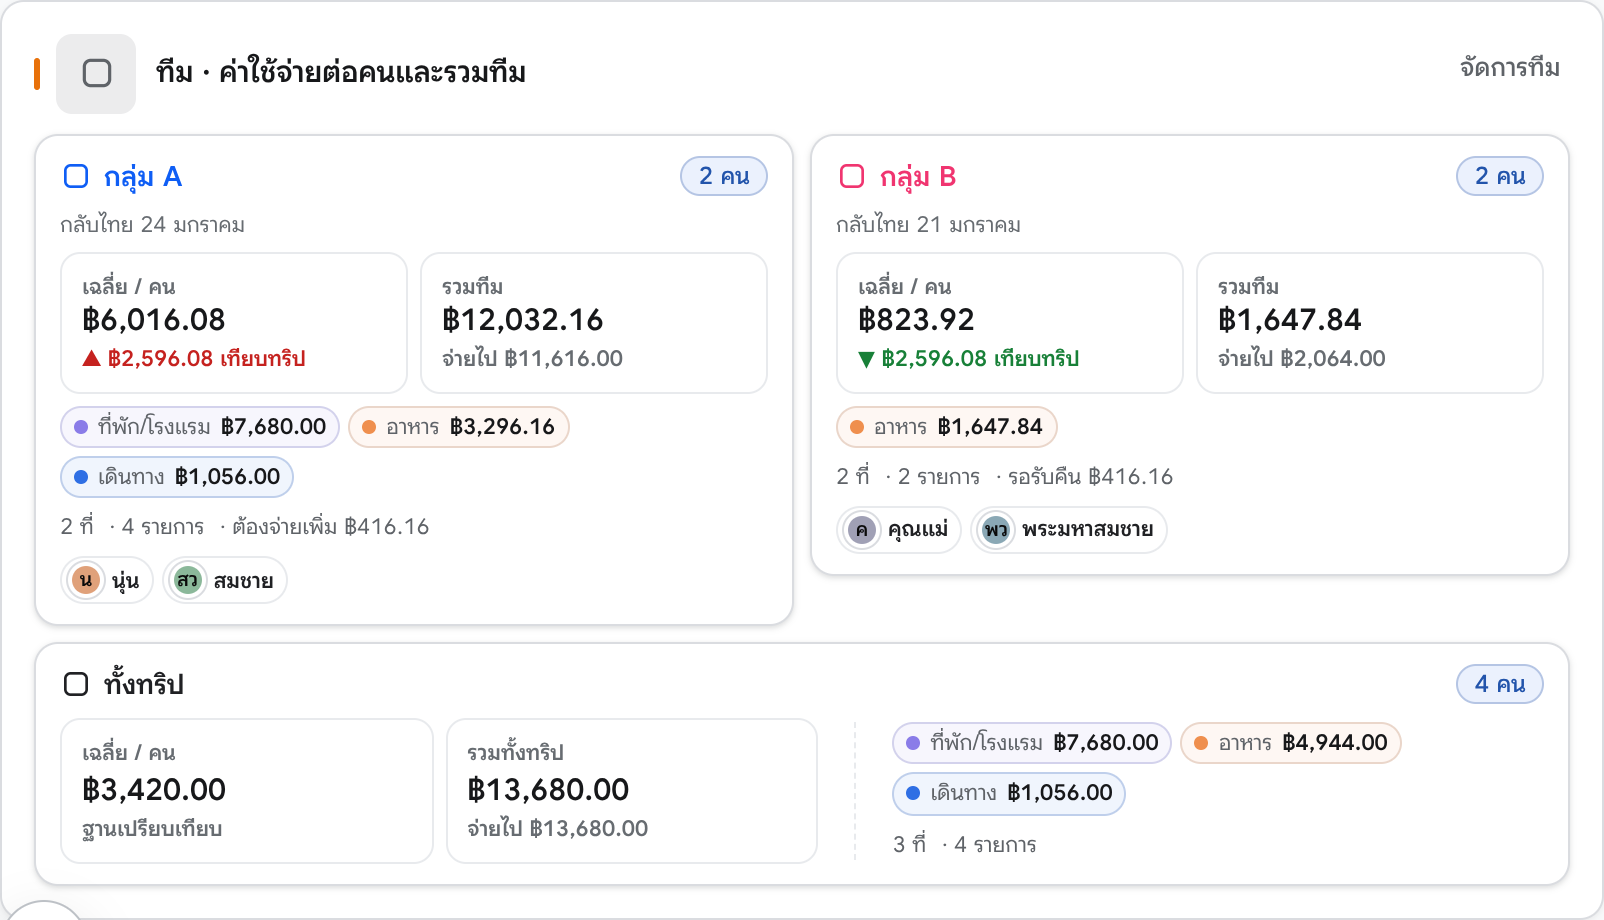
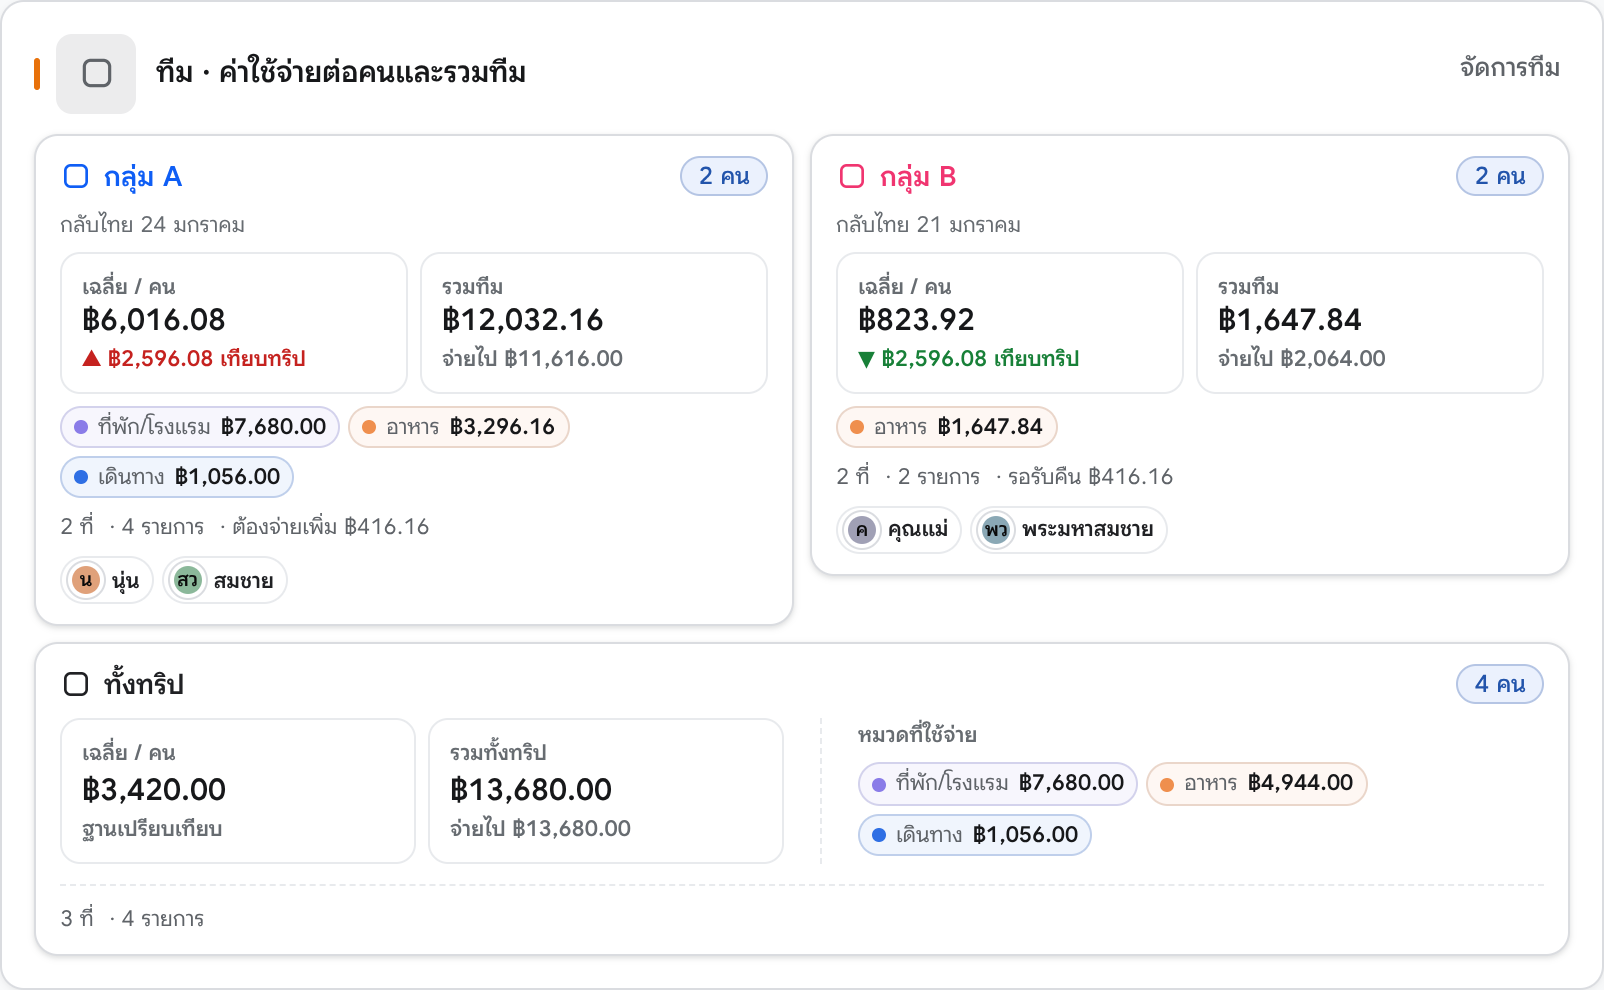
v43: the stretched “ทั้งทริป” row now reads as balanced, orderly bands
Follow-up to the iPad fix (owner: “เมื่อยืดแล้วการจัดวางเนื้อหาภายในก็ควรสมดุล
เป็นระเบียบด้วย”). The wide benchmark card is no longer two halves where the
facts hang off one side:

- head → [figures] | [categories] split by one dashed rule → facts / leftover
  members as a single footer band across the whole card (the dashed rule the
  card always used on a phone).
- the categories band gets the same kind of caption as the figure tiles
  (“หมวดที่ใช้จ่าย”), hidden while the card is stacked so a phone is unchanged.
- the dashed rule stretches to the taller band and both figures keep that height
  with their numbers centred, so neither side looks short.
- two container queries size the bands from the card itself: 560px+ = two equal
  halves; 900px+ = one band per team column above (figure | figure | categories)
  so the benchmark row lines up with the cards it benchmarks. Below 560px it
  still stacks exactly as before.
- tests/unit/dashboard-teams.test.js updated for the bands; before/after iPad
  screenshots refreshed in docs/preview/.

diff --git a/tests/unit/dashboard-teams.test.js b/tests/unit/dashboard-teams.test.js
@@ -1,10 +1,12 @@
 // v43 (owner report: “การ์ด ทีม · ค่าใช้จ่ายต่อคนและรวมทีม … ทางขวาของการ์ดดูว่าง
-// มีพื้นที่เปลือง … บนไอแพดสามารถยืดการ์ดย่อยนี้ให้เต็มเสมอการ์ดด้านบน”)
+// มีพื้นที่เปลือง … บนไอแพดสามารถยืดการ์ดย่อยนี้ให้เต็มเสมอการ์ดด้านบน” แล้วต่อด้วย
+// “เมื่อยืดแล้วการจัดวางเนื้อหาภายในก็ควรสมดุลเป็นระเบียบด้วย”)
 //
 // The “ทั้งทริป / Whole trip” card is the benchmark the teams are compared with.
-// On an iPad it used to sit in the left half of an otherwise empty row, so the
-// rules below keep it either paired with a team (no hole) or across the whole
-// row — and once it is that wide, CSS lays its numbers out as one strip.
+// On an iPad it used to sit in the left half of an otherwise empty row. The rules
+// below keep it either paired with a team (no hole) or across the whole row — and
+// when it is that wide its inside becomes three orderly bands instead of two
+// lopsided halves: head → figures | categories → facts / leftover members.
 import fs from 'node:fs';
 import path from 'node:path';
 
@@ -12,6 +14,16 @@ const here = path.dirname(new URL(import.meta.url).pathname);
 const appSource = fs.readFileSync(path.join(here, '../../src/js/app.js'), 'utf8');
 const flatCss = fs.readFileSync(path.join(here, '../../src/css/flat.css'), 'utf8');
 const componentsCss = fs.readFileSync(path.join(here, '../../src/css/components.css'), 'utf8');
+
+/** The rule block that starts at `needle` and runs to the next one. */
+function cssBlock(startNeedle, endNeedle) {
+  const start = flatCss.indexOf(startNeedle);
+  const end = flatCss.indexOf(endNeedle, start + startNeedle.length);
+  return start > -1 && end > start ? flatCss.slice(start, end) : '';
+}
+
+const twoBand = cssBlock('@container (min-width: 560px)', '@container (min-width: 900px)');
+const threeBand = cssBlock('@container (min-width: 900px)', '.summary-stats-row {');
 
 function ok(value, label) { if (!value) throw new Error(label); }
 
@@ -25,19 +37,27 @@ function tripCardMarkup() {
 
 export function testWholeTripCardIsOneSelfContainedCard() {
   const card = tripCardMarkup();
-  ok(/team-trip-body/.test(card), 'the benchmark card groups its figures in .team-trip-body');
-  ok(/team-trip-side/.test(card), 'categories / facts / leftover members share .team-trip-side');
+  ok(/team-trip-body/.test(card), 'the benchmark card groups its figures and categories in .team-trip-body');
+  ok(/team-trip-side/.test(card), 'the categories keep their own band (.team-trip-side)');
+  ok(/team-trip-foot/.test(card), 'facts / leftover members sit in a footer band (.team-trip-foot)');
   ok(!/team-card-top|team-card-foot/.test(card),
     'the benchmark card is not written as a team card’s top+foot pair any more');
   // The figures and the comparison label must survive the rewrite.
   ok(/เฉลี่ย \/ คน/.test(card) && /รวมทั้งทริป/.test(card), 'per-person and trip totals are still shown');
   ok(/ฐานเปรียบเทียบ/.test(card), 'the card still says it is the comparison base');
+  // The categories band is named in the wide layout (the label is hidden when the
+  // card is stacked, so a phone looks exactly like a team card).
+  ok(/team-trip-label/.test(card) && /หมวดที่ใช้จ่าย/.test(card), 'the categories band carries its own label');
+  ok(/\.team-trip-label \{ display: none; \}/.test(flatCss), 'that label is hidden while the card is stacked');
 }
 
 export function testBenchmarkTakesTheWholeRowOnTablet() {
-  const tablet = flatCss.match(/@media \(min-width: 768px\) and \(max-width: 1023px\) \{[^}]*#team-board > \.team-card--trip:nth-child\(odd\)[^}]*\}[^}]*\}/);
-  ok(tablet, 'the tablet grid gives the benchmark card the full row when it would start one alone');
-  ok(/grid-column:\s*1 \/ -1/.test(tablet[0]), 'the benchmark card spans both tablet columns');
+  // the v43 rules (two tablet media queries exist — the column counts and this one)
+  const v43 = flatCss.slice(flatCss.indexOf('/* v43 —'));
+  const tablet = v43.slice(0, v43.indexOf('@media (min-width: 1024px)'));
+  ok(/#team-board > \.team-card--trip:nth-child\(odd\)/.test(tablet),
+    'the tablet grid gives the benchmark card the full row when it would start one alone');
+  ok(/grid-column:\s*1 \/ -1/.test(tablet), 'the benchmark card spans both tablet columns');
   // Two columns are what makes an odd count the “alone” case.
   ok(/#team-board \{ grid-template-columns: repeat\(2, minmax\(0, 1fr\)\); \}/.test(flatCss),
     'a tablet keeps two team columns');
@@ -56,19 +76,31 @@ export function testBenchmarkTakesTheWholeRowOnDesktop() {
   }
 }
 
-export function testWideBenchmarkReadsAsOneStrip() {
-  const wide = flatCss.match(/@container \(min-width: 460px\) \{[\s\S]*?\n\}/);
-  ok(wide, 'a wide benchmark card switches layout from the card’s own width');
+export function testWideBenchmarkSplitsIntoBalancedBands() {
   ok(/container-type:\s*inline-size/.test(flatCss.match(/#team-board \.team-card--trip \{[^}]*\}/)?.[0] || ''),
-    'the benchmark card is the container the query measures');
-  ok(/\.team-trip-body \{[\s\S]*?display:\s*grid;[\s\S]*?grid-template-columns:\s*minmax\(0, 1\.1fr\) minmax\(0, 1fr\)/.test(wide[0]),
-    'figures take the left half, categories and facts the right half');
-  ok(/border-left:\s*1px dashed/.test(wide[0]), 'the two halves are split by a dashed rule');
-  ok(/\.team-facts \{ border-top: 0/.test(wide[0]), 'the horizontal dashed rule is dropped once the halves sit side by side');
+    'the benchmark card is the container the queries measure');
+  // 560px+: two equal halves — figures on the left, categories on the right.
+  ok(/\.team-trip-body \{[\s\S]*?display:\s*grid;[\s\S]*?grid-template-columns:\s*repeat\(2, minmax\(0, 1fr\)\)/.test(twoBand),
+    'a mid-wide card splits into two equal halves');
+  ok(/\.team-trip-side \{[\s\S]*?border-left:\s*1px dashed/.test(twoBand),
+    'the halves are split by a dashed rule');
+  ok(/\.team-stat \{ display: flex; flex-direction: column; justify-content: center; \}/.test(twoBand),
+    'both figures share the height of the band beside them, centred');
+  // facts + leftover members become one footer band across the whole card.
+  ok(/\.team-trip-foot \{[\s\S]*?flex-direction:\s*row;[\s\S]*?border-top:\s*1px dashed/.test(twoBand),
+    'facts / leftover members read as one footer band');
+  ok(/\.team-facts \{ border-top: 0; margin-top: 0; padding-top: 0; \}/.test(twoBand),
+    'the old per-card dashed rule is dropped once the footer has its own');
+  // 900px+: one band per team column above, so the row lines up with the teams.
+  ok(/grid-template-columns:\s*repeat\(2, minmax\(0, 1fr\)\) minmax\(0, 1\.15fr\)/.test(threeBand),
+    'a very wide card gives every figure its own band, then the categories');
+  ok(/\.team-stats \{ display: contents; \}/.test(threeBand),
+    'the figure pair joins the band grid instead of nesting a second grid');
+  ok(/\.team-trip-side \{ grid-column: 3; \}/.test(threeBand), 'the categories stay in the last band');
 }
 
 export function testNarrowBenchmarkStillStacks() {
-  ok(/\.team-trip-body,\s*\n\.team-trip-side \{ display: flex; flex-direction: column; gap: 6px; min-width: 0; \}/.test(flatCss),
+  ok(/\.team-trip-body,\s*\n\.team-trip-side,\s*\n\.team-trip-foot \{ display: flex; flex-direction: column; gap: 6px; min-width: 0; \}/.test(flatCss),
     'a phone / half-width benchmark card keeps the stacked layout as the default');
   ok(/\.team-card--trip \.team-facts \{[^}]*border-top: 1px dashed/.test(componentsCss),
     'the stacked card keeps the dashed rule above its facts');

diff --git a/src/css/flat.css b/src/css/flat.css
@@ -2959,20 +2959,26 @@ main#app { padding-top: 16px; padding-bottom: 24px; }
   #team-board { grid-template-columns: minmax(0, 1fr); }
 }
 /* v43 — “ทั้งทริป” never sits in half an empty row (owner: on an iPad the card
-   “ทางขวาดูว่าง มีพื้นที่เปลือง”). The benchmark row now takes the whole width
-   of the card whenever the teams above already fill their own rows:
+   “ทางขวาดูว่าง มีพื้นที่เปลือง”). The benchmark row takes the whole width of
+   the card whenever the teams above already fill their own rows:
    · tablet — two columns, so an odd card count (teams + the benchmark) would
      start a new row by itself → it spans both columns instead. An even count
      means it pairs with the last team, which leaves no hole either.
    · desktop — the column counts above are picked from `data-team-count`, so the
      only counts still landing the card alone are listed here.
-   Once the card is that wide it stops stacking: figures on the left, the
-   categories / facts / leftover members on the right, split by the dashed rule
-   the card already used on a phone. A container query decides that from the
-   card's own width, so a half-width benchmark row still stacks neatly. */
+   A wide card then stops stacking and reads as tidy bands: head → figures |
+   categories, split by one dashed rule → facts / leftover members as one footer.
+   Two container queries size those bands from the card itself, so the figures
+   and the categories never fight over the width:
+   · 560px+ — two equal halves (a figure pair beside the categories);
+   · 900px+ — one band per team column above (figure | figure | categories), so
+     the benchmark row lines up with the cards it benchmarks.
+   A phone or a half-width card keeps the stacked layout exactly as before. */
 #team-board .team-card--trip { container-type: inline-size; }
 .team-trip-body,
-.team-trip-side { display: flex; flex-direction: column; gap: 6px; min-width: 0; }
+.team-trip-side,
+.team-trip-foot { display: flex; flex-direction: column; gap: 6px; min-width: 0; }
+.team-trip-label { display: none; }
 @media (min-width: 768px) and (max-width: 1023px) {
   #team-board > .team-card--trip:nth-child(odd) { grid-column: 1 / -1; }
 }
@@ -2982,18 +2988,46 @@ main#app { padding-top: 16px; padding-bottom: 24px; }
   #team-board[data-team-count="13"] > .team-card--trip,
   #team-board[data-team-count="17"] > .team-card--trip { grid-column: 1 / -1; }
 }
-@container (min-width: 460px) {
+@container (min-width: 560px) {
+  /* two halves: the pair of figures on the left, the categories on the right */
   #team-board .team-card--trip .team-trip-body {
     display: grid;
-    grid-template-columns: minmax(0, 1.1fr) minmax(0, 1fr);
-    align-items: center;
-    gap: 4px 18px;
+    grid-template-columns: repeat(2, minmax(0, 1fr));
+    align-items: stretch;
+    gap: 0 18px;
+    padding-bottom: 2px;
   }
   #team-board .team-card--trip .team-trip-side {
     border-left: 1px dashed var(--border-light);
     padding-left: 18px;
   }
+  #team-board .team-card--trip .team-trip-label {
+    display: block;
+    font-size: 11px;
+    font-weight: 600;
+    color: var(--text-tertiary);
+  }
+  /* a figure keeps the height of the band beside it, its numbers centred */
+  #team-board .team-card--trip .team-stat { display: flex; flex-direction: column; justify-content: center; }
+  /* facts + leftover members become one footer band across the whole card */
+  #team-board .team-card--trip .team-trip-foot {
+    flex-direction: row;
+    flex-wrap: wrap;
+    align-items: center;
+    gap: 6px 12px;
+    margin-top: 2px;
+    padding-top: 8px;
+    border-top: 1px dashed var(--border-light);
+  }
   #team-board .team-card--trip .team-facts { border-top: 0; margin-top: 0; padding-top: 0; }
+}
+@container (min-width: 900px) {
+  /* wide enough for one band per team column above: figure | figure | categories */
+  #team-board .team-card--trip .team-trip-body {
+    grid-template-columns: repeat(2, minmax(0, 1fr)) minmax(0, 1.15fr);
+  }
+  #team-board .team-card--trip .team-stats { display: contents; }
+  #team-board .team-card--trip .team-trip-side { grid-column: 3; }
 }
 .summary-stats-row {
   display: flex;

diff --git a/src/js/app.js b/src/js/app.js
@@ -4656,10 +4656,10 @@ function renderDashboardData({ tripId, trip, expenses, members, transfers = [], 
             </article>`;
         };
         /* v43 — the “whole trip” card is the benchmark every team is compared
-           with, so it is written as one self-contained block (head → figures →
-           categories/facts) instead of the team-card top/foot pair. That lets
-           CSS stretch it across the full row on an iPad and lay the two halves
-           side by side, so no empty half is left under the teams. */
+           with, so it is written as one self-contained block instead of a team
+           card's top/foot pair: head → figures (left) + categories (right) →
+           facts / leftover members as the footer. That lets CSS stretch it
+           across the full row on an iPad and still keep three tidy bands. */
         teamBox.innerHTML = report.groups.map(teamCard).join('') + `
           <article class="team-card team-card--trip" data-gid="__trip" role="button" tabindex="0">
             <div class="team-card-head">
@@ -4680,14 +4680,17 @@ function renderDashboardData({ tripId, trip, expenses, members, transfers = [], 
                 </div>
               </div>
               <div class="team-trip-side">
+                <span class="team-trip-label">${th('หมวดที่ใช้จ่าย','Spend by category')}</span>
                 ${teamCatsHtml(report.trip.categories, report.trip.shareMinor)}
-                <div class="team-facts">
-                  <span>${items.length} ${th('ที่','places')}</span>
-                  <span>· ${expenses.length} ${th('รายการ','items')}</span>
-                  ${report.ungrouped.length ? `<span>· ${th('ยังไม่เข้าทีม','ungrouped')} ${report.ungrouped.length} ${th('คน','pax')}</span>` : ''}
-                </div>
-                ${report.ungrouped.length ? `<div class="team-members">${teamMembersHtml(report.ungrouped)}</div>` : ''}
               </div>
+            </div>
+            <div class="team-trip-foot">
+              <div class="team-facts">
+                <span>${items.length} ${th('ที่','places')}</span>
+                <span>· ${expenses.length} ${th('รายการ','items')}</span>
+                ${report.ungrouped.length ? `<span>· ${th('ยังไม่เข้าทีม','ungrouped')} ${report.ungrouped.length} ${th('คน','pax')}</span>` : ''}
+              </div>
+              ${report.ungrouped.length ? `<div class="team-members">${teamMembersHtml(report.ungrouped)}</div>` : ''}
             </div>
           </article>`;
       }
